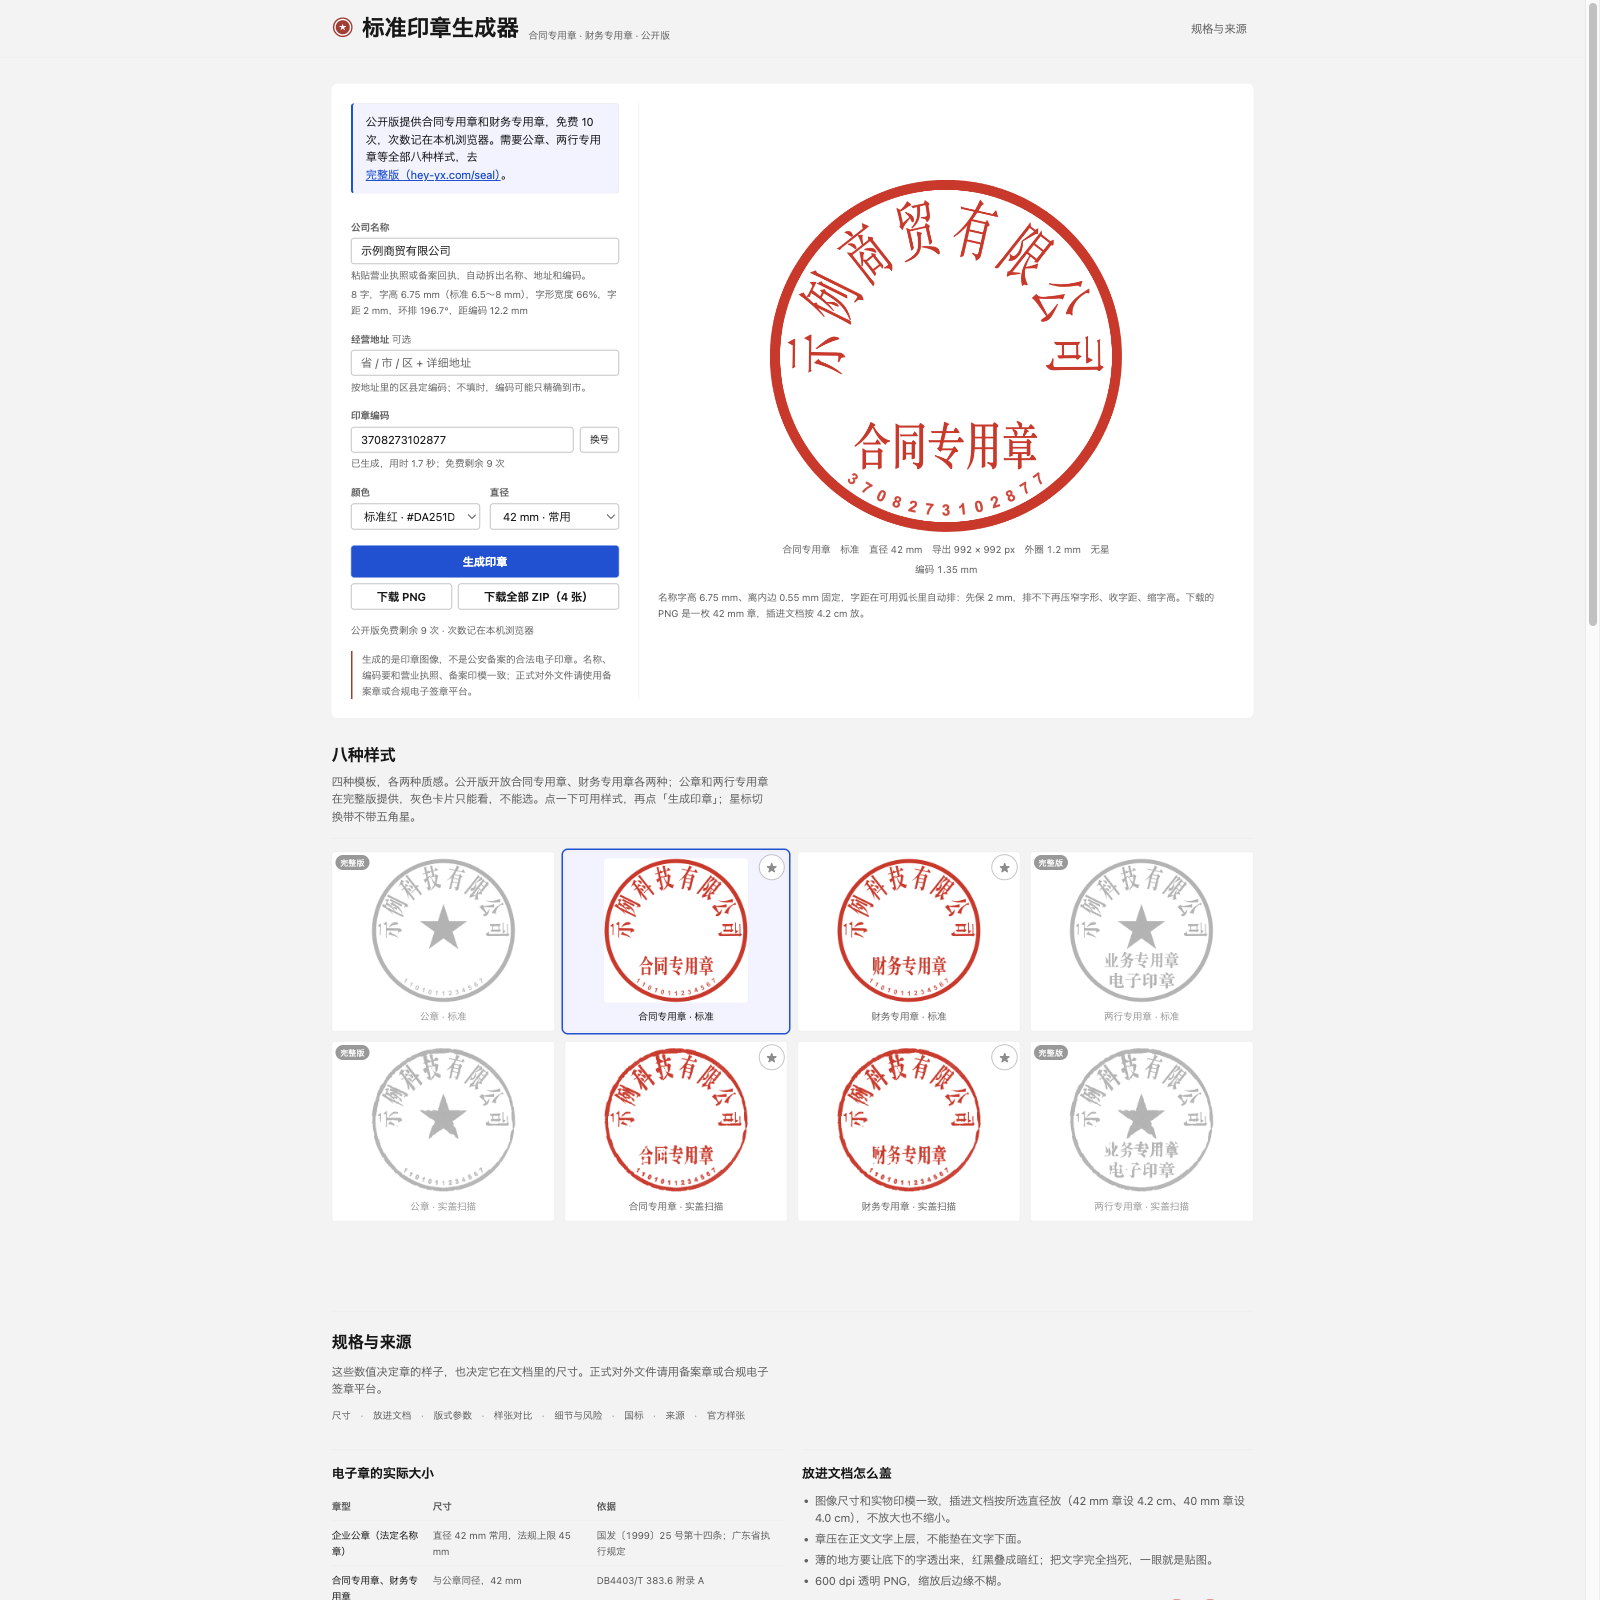
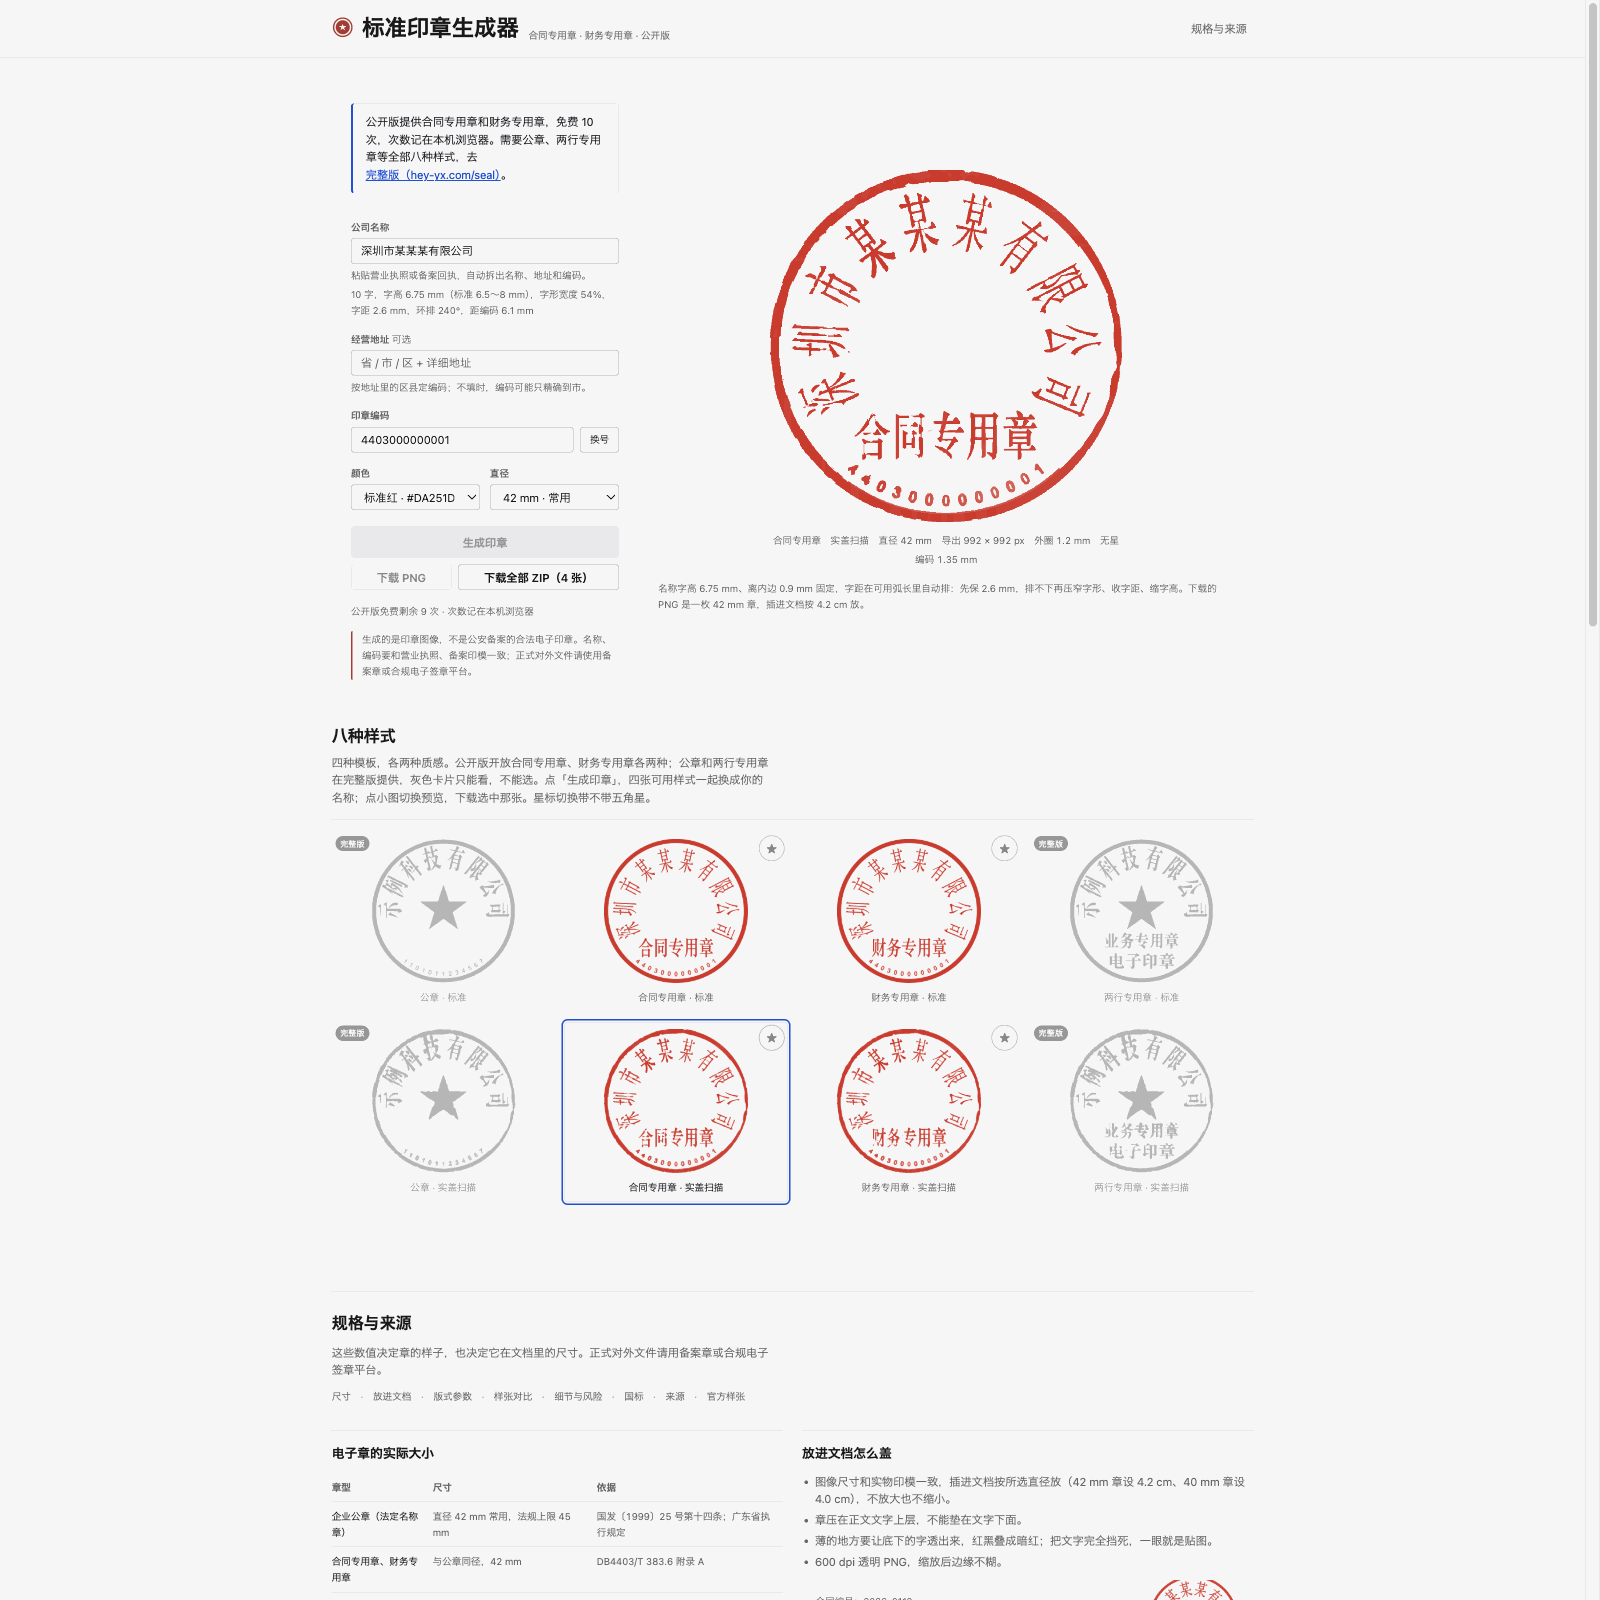
一次生成出四种可用样式，名称排版同步更新
- 生成循环 ENABLED_STYLES：四张可用样式一起出图，扣 1 次
- 名称离内边 0.9mm、字距 2.6mm，合同/财务环排上限保持 240°
- README 截图与封面按新参数重截并压到 256 色

diff --git a/app.js b/app.js
@@ -41,7 +41,8 @@
     starOverride: {},
   };
 
-  let lastGenerated = null;
+  // 一次生成出四种可用样式：缓存每张的 blob 和 object URL，选哪张下载哪张
+  let lastSet = null;
   let generating = false;
   let usedMemory = 0;
 
@@ -508,25 +509,24 @@
       return span;
     }));
     const note = $('sizeNote');
-    if (note) note.textContent = `名称字高 6.75\u00A0mm、离内边 0.55\u00A0mm 固定，字距在可用弧长里自动排：先保 2\u00A0mm，排不下再压窄字形、收字距、缩字高。下载的 PNG 是一枚 ${f.diameter}\u00A0mm 章，插进文档按 ${(f.diameter / 10).toFixed(1)}\u00A0cm 放。`;
+    if (note) note.textContent = `名称字高 6.75\u00A0mm、离内边 0.9\u00A0mm 固定，字距在可用弧长里自动排：先保 2.6\u00A0mm，排不下再压窄字形、收字距、缩字高。下载的 PNG 是一枚 ${f.diameter}\u00A0mm 章，插进文档按 ${(f.diameter / 10).toFixed(1)}\u00A0cm 放。`;
     updateNameState(f);
     updateCodeState(f.code, f.profile);
     updateBilling();
     markStale(f);
   }
 
-  // 表单指纹：用于判断预览是否过期
+  // 表单指纹：用于判断四张图是否过期。模板和质感不在里面，切卡不算改参数
   function buildPayload(f) {
     return {
-      profile: f.profile,
       name: f.name,
-      line1: f.line1,
-      line2: f.line2,
       code: codeOk(f.code) ? f.code : '',
       color: f.color,
       diameter: f.diameter,
-      star: f.star,
-      fresh: f.fresh,
+      stars: {
+        contract: starForProfile('contract') === true,
+        finance: starForProfile('finance') === true
+      },
       seed: state.seed
     };
   }
@@ -572,9 +572,12 @@
     });
   }
 
-  // 合同/财务的样张有两版：带星和不带星，切星标时换图
+  // 合同/财务的样张有两版：带星和不带星，切星标时换图。
+  // 已经换成真实生成结果的卡不再改回样张。
   function syncStarSamples() {
     document.querySelectorAll('.opt-img[data-sample-profile]').forEach((img) => {
+      const opt = img.closest('.opt');
+      if (lastSet && opt && lastSet.items[keyOf(opt)]) return;
       const on = starForProfile(img.dataset.sampleProfile) === true;
       const src = on ? img.dataset.srcOn : img.dataset.srcOff;
       if (src && img.getAttribute('src') !== src) img.src = src;
@@ -585,12 +588,20 @@
     return JSON.stringify(buildPayload(f || readForm()));
   }
 
+  function keyOf(opt) {
+    return `${opt.dataset.preset}-${opt.dataset.look}`;
+  }
+
+  function currentKey() {
+    return `${$('preset').value}-${$('look').value}`;
+  }
+
   function markStale(f) {
-    if (!lastGenerated) return;
-    const stale = currentSig(f) !== lastGenerated.sig;
+    if (!lastSet) return;
+    const stale = currentSig(f) !== lastSet.sig;
     $('preview').classList.toggle('is-stale', stale);
     $('previewStale').hidden = !stale;
-    $('download').disabled = stale;
+    $('download').disabled = stale || !lastSet.items[currentKey()];
   }
 
   function syncFromUrl() {
@@ -680,13 +691,14 @@
     return `${label}-${SealMeta.toSlug(f.name)}-${f.diameter}mm${tag}${ph}.png`;
   }
 
+  // 下载左边大图当前显示的那一张
   function downloadLast() {
-    if (!lastGenerated || !PRESETS[lastGenerated.profile]) return;
+    const item = lastSet && lastSet.items[currentKey()];
+    if (!item) return;
     const a = document.createElement('a');
-    a.href = URL.createObjectURL(lastGenerated.blob);
-    a.download = lastGenerated.name;
+    a.href = item.url;
+    a.download = item.name;
     a.click();
-    setTimeout(() => URL.revokeObjectURL(a.href), 3000);
   }
 
   // 公开版打包：只渲染 ENABLED_STYLES 里的四种，禁用的公章/两行章不进来。
@@ -764,13 +776,19 @@
     } finally {
       generating = false;
       btn.textContent = label;
-      one.disabled = !lastGenerated || currentSig(readForm()) !== lastGenerated.sig;
+      one.disabled = !lastSet || currentSig(readForm()) !== lastSet.sig || !lastSet.items[currentKey()];
       gen.disabled = !codeOk($('code').value) || usesLeft() <= 0;
       updateZipState();
     }
   }
 
-  async function applyGenerated(blob, f) {
+  function cardImg(key) {
+    const [preset, look] = key.split('-');
+    const opt = document.querySelector(`#comboGallery .opt[data-preset="${preset}"][data-look="${look}"]`);
+    return opt ? opt.querySelector('img') : null;
+  }
+
+  async function drawPreview(blob) {
     const c = $('preview');
     const g = c.getContext('2d');
     const bmp = await createImageBitmap(blob);
@@ -779,11 +797,44 @@
     g.imageSmoothingQuality = 'high';
     g.drawImage(bmp, 0, 0, c.width, c.height);
     if (bmp.close) bmp.close();
-    lastGenerated = { blob, name: fileName(f), sig: currentSig(f), profile: f.profile };
+  }
+
+  // 把选中那张画到左边大图；过期提示由 markStale 管
+  function showSelected() {
+    const item = lastSet && lastSet.items[currentKey()];
+    if (!item) return;
+    drawPreview(item.blob);
     $('previewEmpty').hidden = true;
+  }
+
+  function clearSet() {
+    if (!lastSet) return;
+    Object.keys(lastSet.items).forEach((key) => {
+      URL.revokeObjectURL(lastSet.items[key].url);
+      const img = cardImg(key);
+      if (img && img.dataset.staticSrc) img.src = img.dataset.staticSrc;
+    });
+    lastSet = null;
+  }
+
+  // 四张可用样式全部换成这次的结果，点哪张看哪张；禁用的四张保持样张
+  async function applySet(items, f) {
+    clearSet();
+    const map = {};
+    for (const item of items) {
+      const url = URL.createObjectURL(item.blob);
+      const img = cardImg(item.key);
+      if (img) {
+        if (!img.dataset.staticSrc) img.dataset.staticSrc = img.getAttribute('src');
+        img.src = url;
+      }
+      map[item.key] = { blob: item.blob, url, name: fileName(item.f) };
+    }
+    lastSet = { items: map, sig: currentSig(f) };
+    $('preview').classList.remove('is-stale');
     $('previewStale').hidden = true;
-    c.classList.remove('is-stale');
     $('download').disabled = false;
+    showSelected();
   }
 
   async function generate() {
@@ -797,18 +848,31 @@
     const btn = $('generate');
     generating = true;
     btn.disabled = true;
-    btn.textContent = '生成中…';
     const started = Date.now();
-    // 先让浏览器画出「生成中…」再进同步渲染，否则长任务期间按钮看着没反应
-    await new Promise((resolve) => setTimeout(resolve, 30));
     try {
-      const canvas = document.createElement('canvas');
-      Seal.render(canvas, renderOpts(f));
-      const blob = await Seal.toPngBlob(canvas, f.diameter);
-      await applyGenerated(blob, f);
+      const items = [];
+      for (let i = 0; i < ENABLED_STYLES.length; i++) {
+        const style = ENABLED_STYLES[i];
+        btn.textContent = `生成中 ${i + 1}/${ENABLED_STYLES.length}…`;
+        // 先让浏览器画出进度再进同步渲染，否则长任务期间按钮看着没反应
+        await new Promise((resolve) => setTimeout(resolve, 30));
+        const styleForm = Object.assign({}, f, {
+          profile: style.profile,
+          fresh: style.fresh,
+          star: starForProfile(style.profile),
+          nameSize: PRESETS[style.profile].nameSize,
+          arc: PRESETS[style.profile].arc,
+          texture: PRESETS[style.profile].tex
+        });
+        const canvas = document.createElement('canvas');
+        Seal.render(canvas, renderOpts(styleForm));
+        const blob = await Seal.toPngBlob(canvas, f.diameter);
+        items.push({ key: `${style.profile}-${style.fresh ? 'fresh' : 'clean'}`, blob, f: styleForm });
+      }
+      await applySet(items, f);
       addUse();
       updateBilling();
-      hint(`已生成，用时 ${((Date.now() - started) / 1000).toFixed(1)} 秒；免费剩余 ${usesLeft()} 次`);
+      hint(`已生成 ${items.length} 种样式，用时 ${((Date.now() - started) / 1000).toFixed(1)} 秒；点小图切换，下载选中那张`);
     } catch (err) {
       setState(err.message || '生成失败，请重试');
     } finally {
@@ -829,7 +893,7 @@
   }
 
   function bind() {
-    // 八宫格：一张图同时定模板和质感；样张是静态图，选中后点「生成印章」才出图
+    // 八宫格：一张图同时定模板和质感；生成前是静态样张，生成后四张可用卡全是真实结果
     $('comboGallery').addEventListener('click', (e) => {
       // 小图右上角的星标只管带不带五角星，不切换模板
       const badge = e.target.closest('.star-badge');
@@ -857,6 +921,8 @@
         render();
         persist();
       }
+      // 生成过就把左边大图换成这张的结果；没生成时保持原样
+      showSelected();
     });
 
     ['name', 'line1', 'line2'].forEach((id) => {

diff --git a/index.html b/index.html
@@ -95,8 +95,8 @@
         <div class="preview-canvas-wrap">
           <canvas id="preview" width="720" height="720" aria-hidden="true"></canvas>
           <div class="preview-empty" id="previewEmpty">
-            <p class="preview-empty-title">点「生成印章」出图</p>
-            <p class="preview-empty-note">每次生成消耗 1 次；重复下载同一张不扣次数。</p>
+            <p class="preview-empty-title">点「生成印章」，四种可用样式一起出图</p>
+            <p class="preview-empty-note">一次消耗 1 次；点小图切换，下载选中那张。</p>
           </div>
           <span class="preview-stale" id="previewStale" hidden>参数已改，点「生成印章」重新出图</span>
         </div>
@@ -109,7 +109,7 @@
       <section id="styles" class="styles" aria-labelledby="styles-title">
         <div class="styles-head">
           <h2 id="styles-title">八种样式</h2>
-          <p class="lead">四种模板，各两种质感。公开版开放合同专用章、财务专用章各两种；公章和两行专用章在完整版提供，灰色卡片只能看，不能选。点一下可用样式，再点「生成印章」；星标切换带不带五角星。</p>
+          <p class="lead">四种模板，各两种质感。公开版开放合同专用章、财务专用章各两种；公章和两行专用章在完整版提供，灰色卡片只能看，不能选。点「生成印章」，四张可用样式一起换成你的名称；点小图切换预览，下载选中那张。星标切换带不带五角星。</p>
         </div>
 
       <div class="variants" id="comboGallery" role="group" aria-label="模板与质感">
@@ -234,8 +234,8 @@
             <tr><td>直径</td><td>42 mm（可选 40 mm）</td><td>国发第十四条上限 45 mm；广东省执行规定 42 mm</td></tr>
             <tr><td>边框</td><td>1.2 mm（42 mm 章）；40 mm 章 1.1 mm</td><td>广东省执行规定；DB4403/T 383.6 允许 1.0 或 1.2 mm；40 mm 章 1.1 mm 取自标准</td></tr>
             <tr><td>五角星</td><td>外接宽 14 mm（40 mm 章 13 mm），上移 0.5 mm</td><td>DB4403/T 383.6；上移值来自行业资料；40 mm 章 13 mm 取自标准</td></tr>
-            <tr><td>名称</td><td>宋体，字高 6.75 mm，离内边 0.55 mm，横向比例 0.66（墨迹宽约为字高的 2/3，竖长瘦体），字距按可用弧长自动排（先保 2 mm，可一路收到 0）；环排角度随字数变：公章 2 字 44°、4 字 95°、8 字 197°、10 字 248°、12 字起顶到 274°；合同/财务/两行专用章底部有横排章名，上限 240°；顶到上限后依次压窄字形（下限 49%）、收字距、缩字高</td><td>国发第十七条（宋体、简化字）；DB11/T 918-2021 6.2.1 环排角度 270°、字高 6.5～8 mm；DB4403 附录 A 样张名称墨迹 6.12 mm、实物章 7.07 mm</td></tr>
-            <tr><td>名称长度</td><td>20 字以内尽量保 6.75 mm 字高（12 字起压窄到 59%～49%，17 字起字距收到 1 mm 以下）；21 字起缩字高；25 字 5.64 mm</td><td>国发第十五条：字数过多不易刻制时可用规范化简称</td></tr>
+            <tr><td>名称</td><td>宋体，字高 6.75 mm，离内边 0.9 mm，横向比例 0.66（墨迹宽约为字高的 2/3，竖长瘦体），字距按可用弧长自动排（先保 2.6 mm，可一路收到 0）；环排角度随字数变：公章 2 字 47°、4 字 104°、8 字 217°、10 字起顶到 260°；合同/财务/两行专用章中心有横排章名，上限 240°；顶到上限后依次压窄字形（下限 49%）、收字距、缩字高</td><td>国发第十七条（宋体、简化字）；DB11/T 918-2021 6.2.1 环排角度 270°、字高 6.5～8 mm；DB4403 附录 A 样张名称墨迹 6.12 mm、实物章 7.07 mm</td></tr>
+            <tr><td>名称长度</td><td>20 字以内尽量保 6.75 mm 字高（11 字起压窄到 53%～49%，13 字起字距收到 1.8 mm 以下）；20 字起缩字高；25 字 5.30 mm</td><td>国发第十五条：字数过多不易刻制时可用规范化简称</td></tr>
             <tr><td>编码</td><td>13 位（GA 241.1），也可填 14 位（DB4403）</td><td>GA 241.1-2000；DB4403/T 383.6</td></tr>
             <tr><td>编码字</td><td>Arial 700，字高 1.35 mm，中心距 2 mm，距内边 0.6 mm</td><td>DB4403/T 383.6 6.2（每位字高 1.5 mm，实测 1.42 mm，在 ±10% 内）</td></tr>
             <tr><td>颜色</td><td>标准红 #DA251D（默认），可选纯红 #FF0000</td><td>DB4403/T 383.6 5.3 RGB(218,37,29)</td></tr>
@@ -323,9 +323,9 @@
 </footer>
 
 <script src="./data/divisions.js?v=1"></script>
-<script src="./seal-meta.js?v=1"></script>
-<script src="./seal.js?v=1"></script>
+<script src="./seal-meta.js?v=2"></script>
+<script src="./seal.js?v=3"></script>
 <script src="./zip.js?v=1"></script>
-<script src="./app.js?v=4"></script>
+<script src="./app.js?v=7"></script>
 </body>
 </html>

diff --git a/seal-meta.js b/seal-meta.js
@@ -4,7 +4,7 @@
 
   // 名称排版：算字高、横向比例、字距。render 和 nameFit 共用这一份，口径不会跑偏
   //   官方样张：字高 5.1mm、不压窄、字距约 1mm（≈0.2 倍字高）
-  //   默认字高 6.75mm、离内边 0.55mm，字距先保 2mm；名称短时角度按实际占用算。
+  //   默认字高 6.75mm、离内边 0.9mm，字距先保 2.6mm；名称短时角度按实际占用算。
   //   排不下先横向压窄字形（下限 49%），再收字距（下限 1mm），最后才缩字高。
   function nameLayout(o) {
     const chars = Array.from(o.name || '');
@@ -16,7 +16,7 @@
     // （环排角度 250°～270°）与官方样张实测；带中心章名的专用章收到 240°，
     // 否则名称会绕下来压到章名。
     const arcMax = o.arc || 274;
-    const outerGap = o.nameOuterGap != null ? Math.max(0, +o.nameOuterGap) : 0.55;
+    const outerGap = o.nameOuterGap != null ? Math.max(0, +o.nameOuterGap) : 0.9;
     const outer = R - border - outerGap;
     const target = o.nameSize || 6.75;
     // 字宽按宋体实测：字高 size 对应字号 size/0.88。横向比例用 0.66，
@@ -24,7 +24,8 @@
     // 锁死横向比例，字不随弧长变宽。
     const charW = (sz) => sz / 0.88;
     const SX_FIX = 0.66;
-    const GAP_PREF = 2.0;
+    // 字距默认 2mm；页面/服务端可以按版本传 nameGapPref 覆盖，做版式对比时不用改算法
+    const GAP_PREF = o.nameGapPref != null ? Math.max(0, +o.nameGapPref) : 2.6;
     // 字距优先让位给字高：名称长时字距可以一路收到 0，排不下才缩字高。
     const GAP_MIN = 0;
     const SX_MIN = 0.49;

diff --git a/seal.js b/seal.js
@@ -929,7 +929,7 @@
       nameSize: 6.75,
       nameWeight: 400,
       nameStroke: 0,
-      arc: 274,
+      arc: 240,
       starWidth: 14,
       star: true,
       lineSize: 5.8,

diff --git a/user-input.md b/user-input.md
@@ -1,0 +1,7 @@
+# 用户意图
+
+- 目的：公开演示版，只开放合同专用章、财务专用章各标准与实盖扫描两种，免费 10 次，全部在浏览器本地完成。
+- 设想：页面完整展示八种样式，公章和两行专用章灰显带「完整版」角标，不删卡。
+- 生成：点一次「生成印章」，四张可用样式一起出图，扣 1 次；点小图切换预览，下载选中那张；禁用的四张不参与。
+- 验收：8 张卡 4 张可用 4 张灰显；ZIP 只含 4 张 PNG + 配置.json，扣 4 次；42mm 992×992、40mm 945×945、pHYs 23622。
+- 名称排版与完整版一致：字高 6.75mm、离内边 0.9mm、字距先保 2.6mm，角度随字数加大。

diff --git a/README.md b/README.md
@@ -12,6 +12,7 @@
 
 - 合同专用章：标准、实盖扫描
 - 财务专用章：标准、实盖扫描
+- 点一次「生成印章」，四张可用样式一起出图，扣 1 次；点卡片切换，下载选中那张
 - 42 mm 或 40 mm，600 dpi 透明 PNG
 - 星标切换带不带五角星
 - 下载全部 ZIP 只打包这四张，扣 4 次
